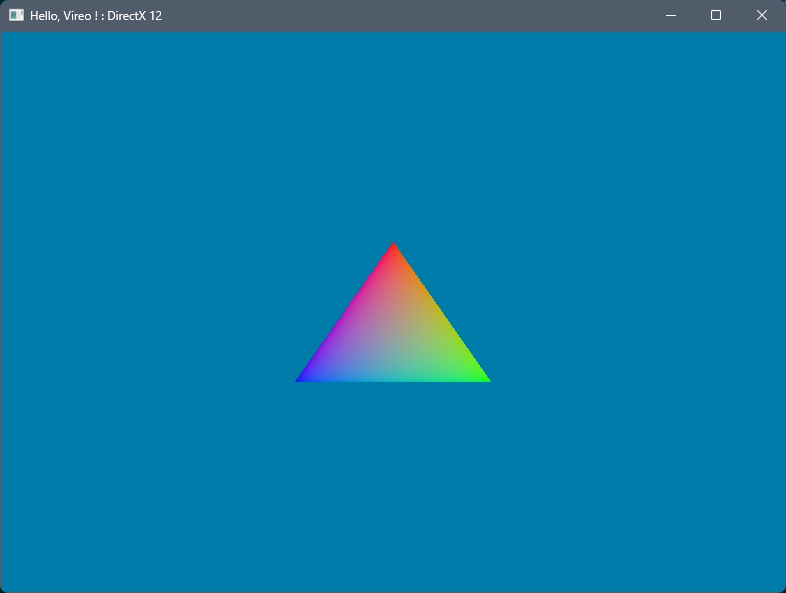
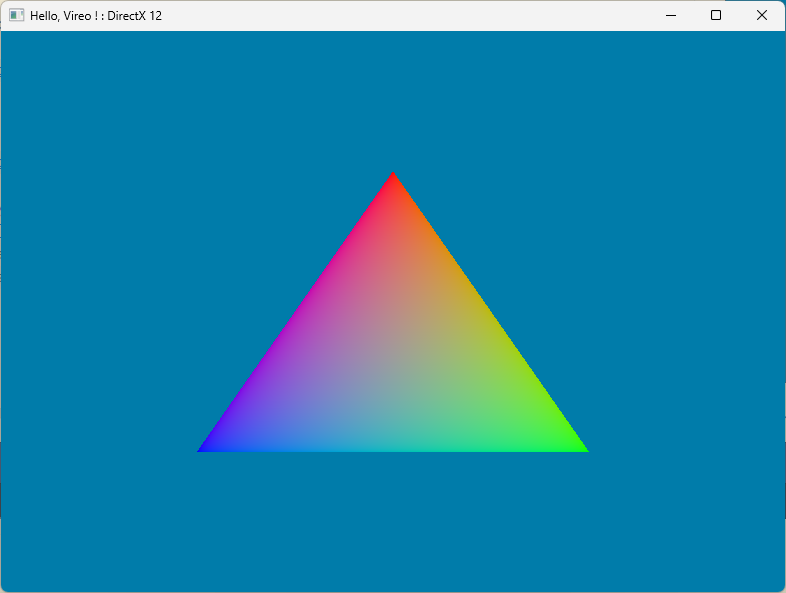
Update tutorial #1

diff --git a/docs/001_tutorial_triangle.md b/docs/001_tutorial_triangle.md
@@ -265,7 +265,7 @@ Add the creation code after the fence creation :
 
     ...
     for (auto& frameData : framesData) {
-        frameData.inFlightFence = vireo->createFence();
+        frameData.inFlightFence = vireo->createFence(true);
         frameData.commandAllocator = vireo->createCommandAllocator(vireo::CommandType::GRAPHIC);
         frameData.commandList = frameData.commandAllocator->createCommandList();
     }
@@ -398,9 +398,9 @@ your class interface:
 Add the triangle data with a different color for each vertex, after the `Vertex` struct:
 
     std::vector<Vertex> triangleVertices{
-        { { 0.0f, 0.25f, 0.0f }, { 1.0f, 0.0f, 0.0f} },
-        { { 0.25f, -0.25f, 0.0f }, { 0.0f, 1.0f, 0.0f } },
-        { { -0.25f, -0.25f, 0.0f }, { 0.0f, 0.0f, 1.0f } }
+        { {  0.0f,  0.5f, 0.0f }, { 1.0f, 0.0f, 0.0f } },
+        { {  0.5f, -0.5f, 0.0f }, { 0.0f, 1.0f, 0.0f } },
+        { { -0.5f, -0.5f, 0.0f }, { 0.0f, 0.0f, 1.0f } }
     };
 
 The next step is to tell the graphic API how to pass this data format to the 
@@ -591,7 +591,7 @@ With DirectX :
 
 ![triangle_color_dx.png](images/triangle_color_dx.png)
 
-## What's next ?
+## What's next?
 Explore the [Vireo RHI Samples repository](https://github.com/HenriMichelon/vireo_samples)
 for other examples (uniforms, push constants, compute pipeline, MSAA, 
 depth pre-pass, post-processing effects, ...)
